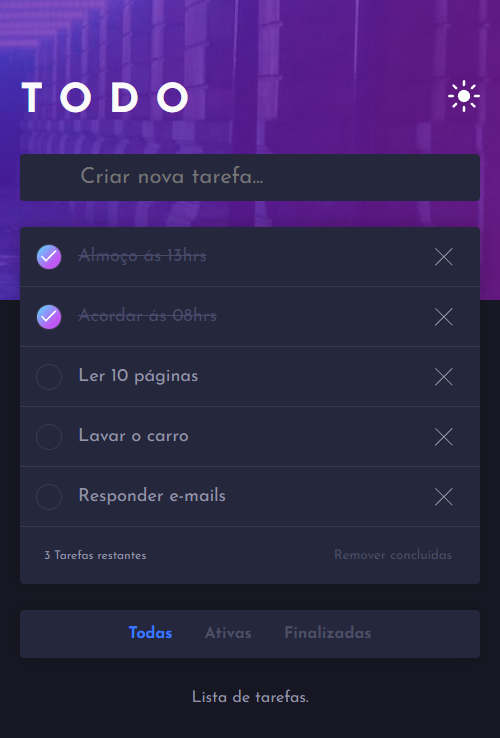
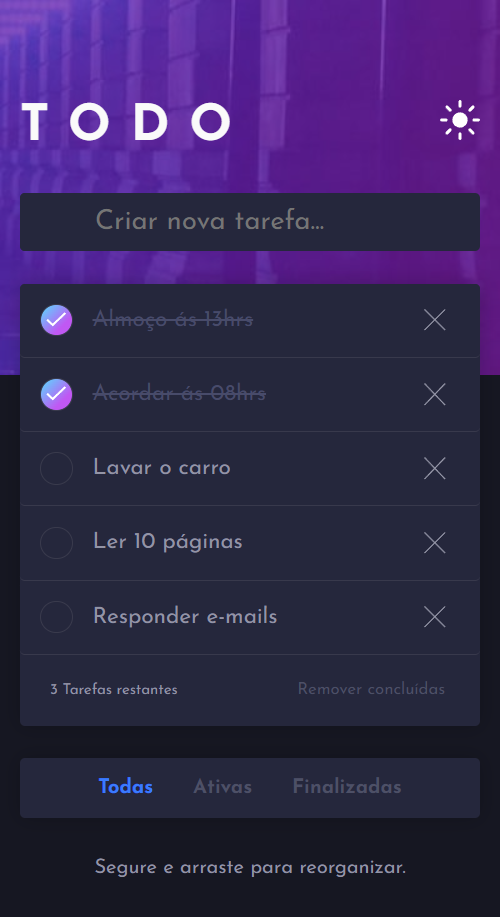
atualização de screenshots

diff --git a/README.md b/README.md
@@ -44,7 +44,8 @@
 - Marcar tarefas concluídas.
 - Filtrar tarefas.
 - Remover somente tarefas concluídas.
-- Tema dark e light. 
+- Tema claro e escuro. 
+- Reorganização de tarefas.
 
 <br>
 <br>
